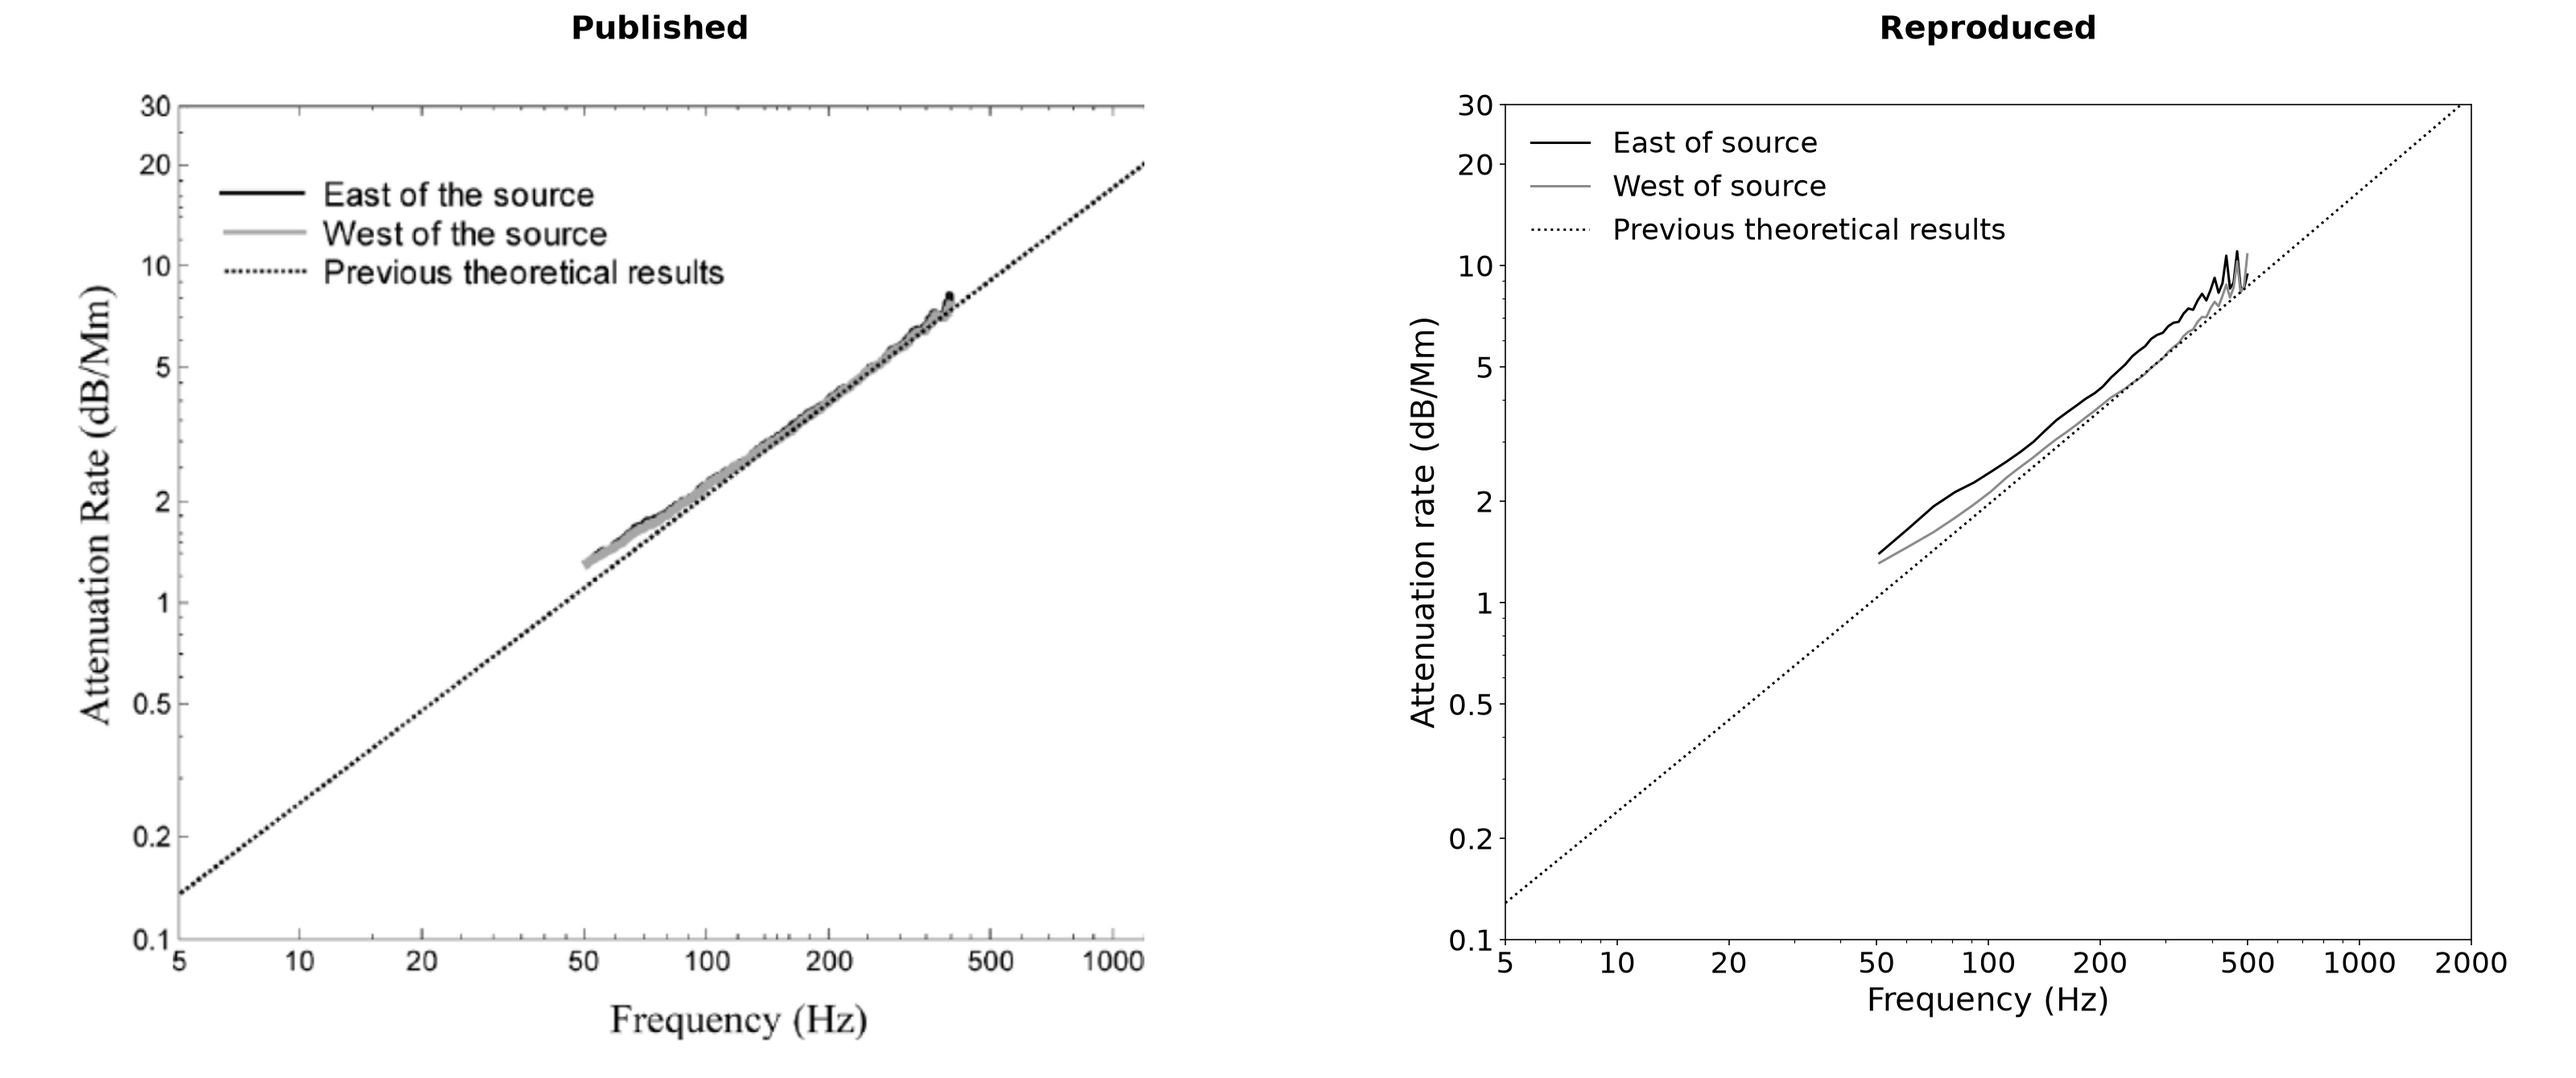
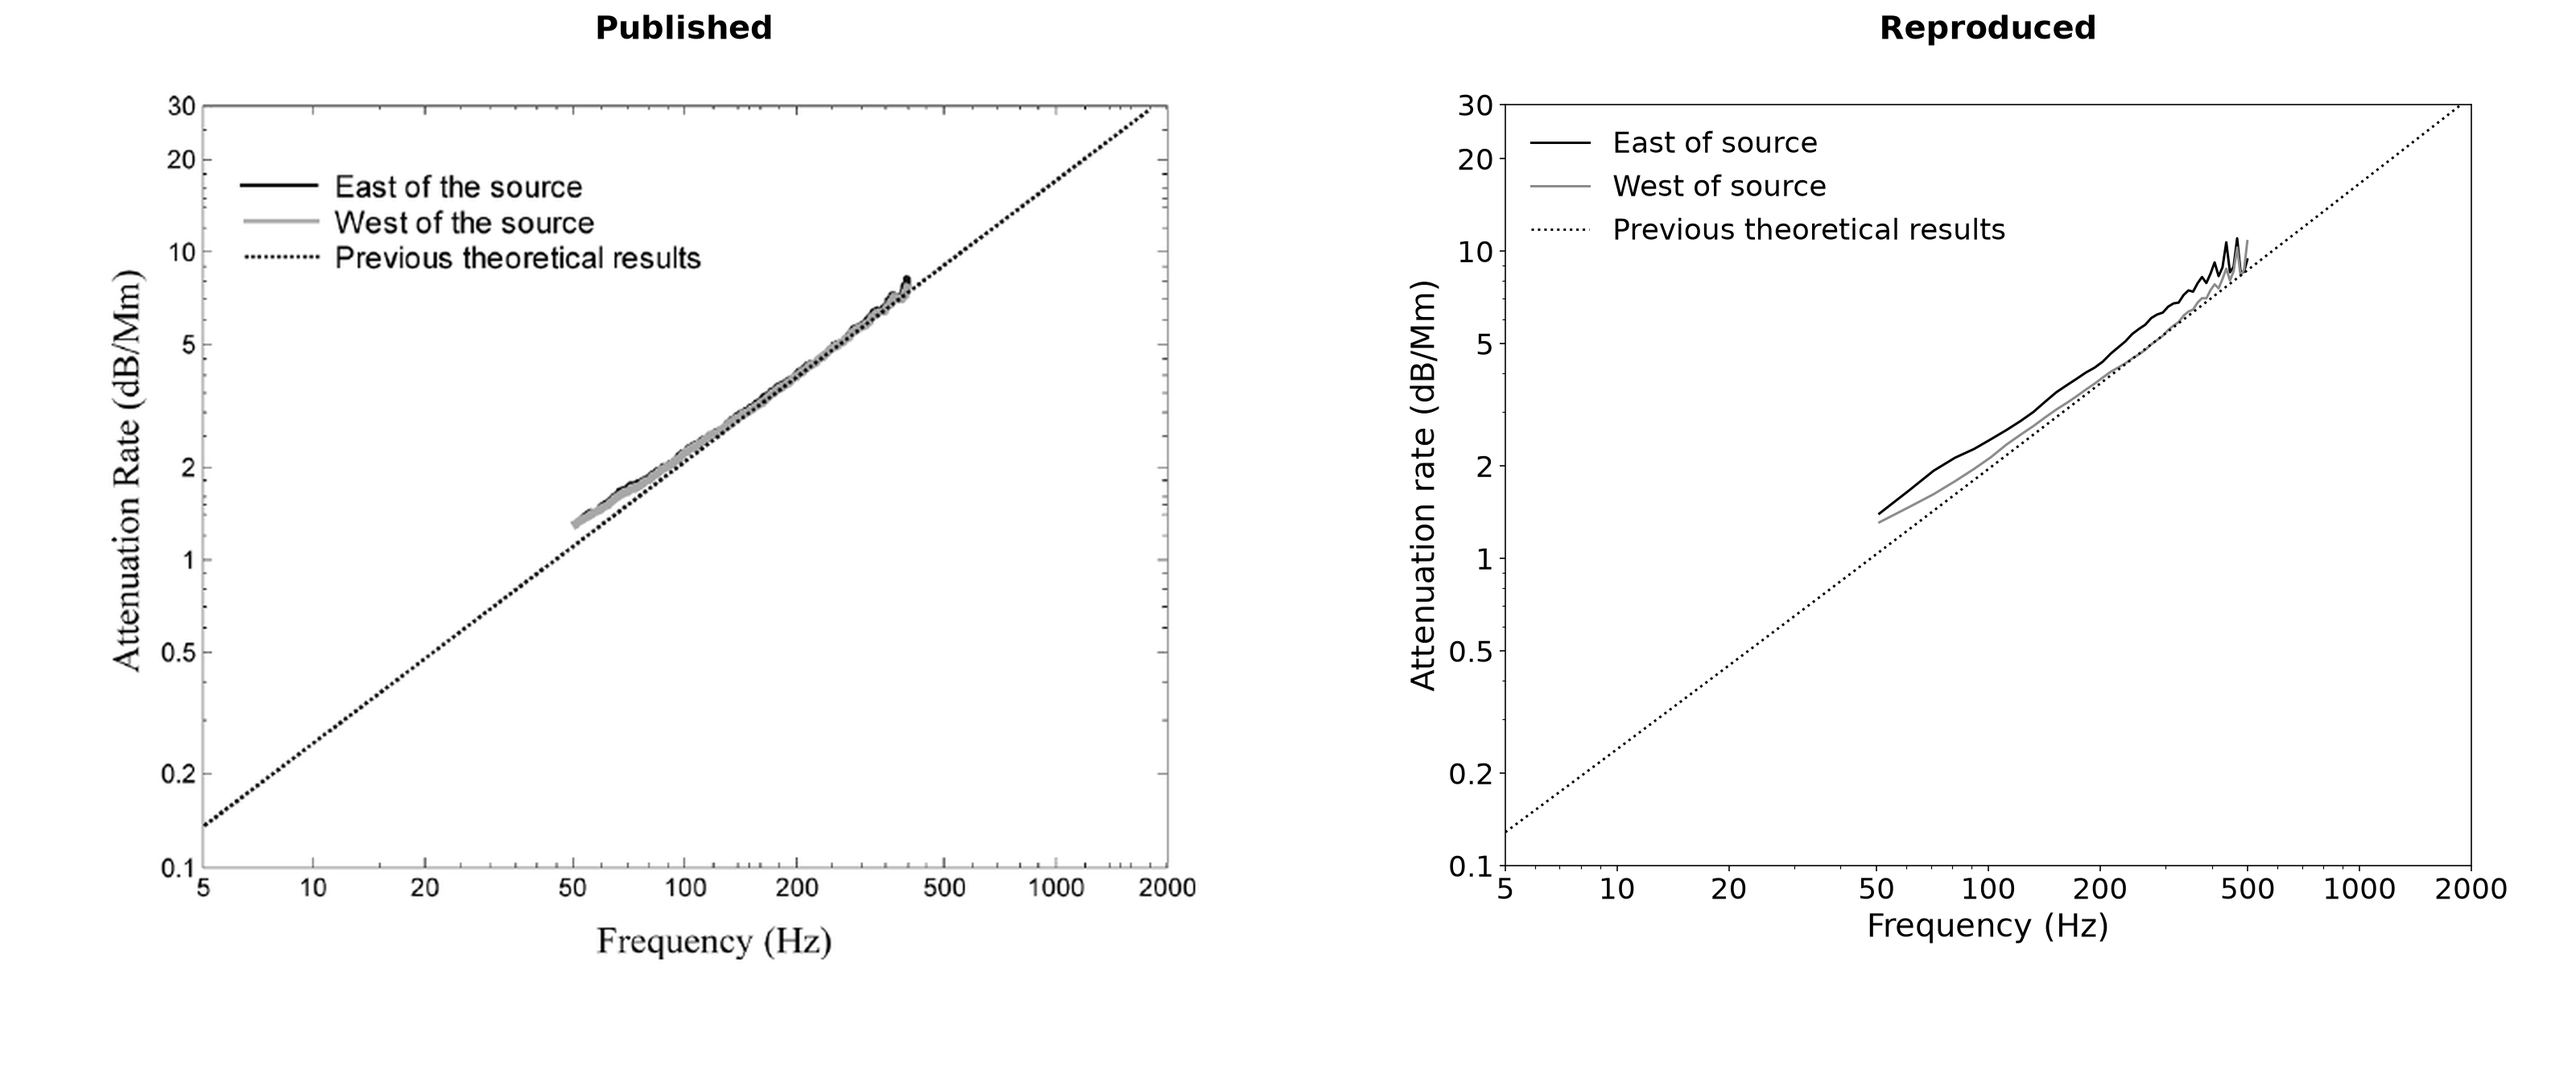
fix(verification): restore 2006 published plot boundaries
Recrop Figures 5–7 directly from the original 2006 PDF pages so every published right frame and its outer margin remain visible. Correct the previously distorted published aspect ratios, rematch the reproduced frames to the PDF-derived geometry, and restore Figure 5's paper range through 0.12 seconds.\n\nTests: .venv/bin/pytest -q tests/test_simpson_taflove_2004.py tests/test_simpson_taflove_2006.py

diff --git a/src/ionosphere_fdtd/simpson_taflove_2006.py b/src/ionosphere_fdtd/simpson_taflove_2006.py
@@ -707,10 +707,10 @@ def render_figure_5(traces: ValidationTraces, path: str | Path) -> Path:
     for label, trace in values.items():
         axis.plot(traces.time_s, trace, label=f"Point {label}", **styles[label])
     axis.set(
-        xlim=(0.0, 0.11),
+        xlim=(0.0, 0.12),
         ylim=(-0.2, 1.0),
     )
-    axis.set_xticks(np.arange(0.0, 0.101, 0.02))
+    axis.set_xticks(np.arange(0.0, 0.121, 0.02))
     axis.set_yticks(np.arange(-0.1, 1.01, 0.1))
     axis.set_xlabel("Time (seconds)", fontsize=20)
     axis.set_ylabel("Normalized radial electric field", fontsize=20)

diff --git a/AGENTS.md b/AGENTS.md
@@ -125,5 +125,6 @@ Current geometry references:
 - Simpson–Taflove 2006 comparison plots use a `3200 x 1340` pixel canvas,
   20-point reproduced axis labels, and 18-point reproduced major tick labels
   and legend text. Their matched published/reproduced data frames are
-  `1200 x 1033` pixels for Figure 5, `1200 x 1038` pixels for Figure 6, and
-  `1200 x 983` pixels for Figure 7.
+  `1200 x 952` pixels for Figure 5, `1200 x 946` pixels for Figure 6, and
+  `1200 x 942` pixels for Figure 7. Measure these ratios from the original PDF
+  page crops, not from a previously composed comparison image.
